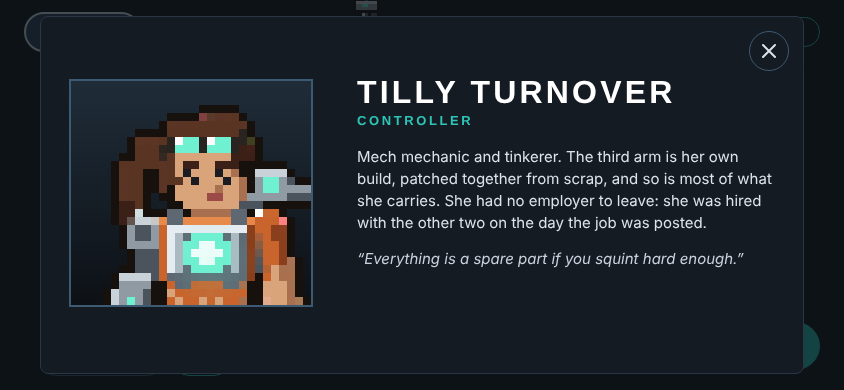
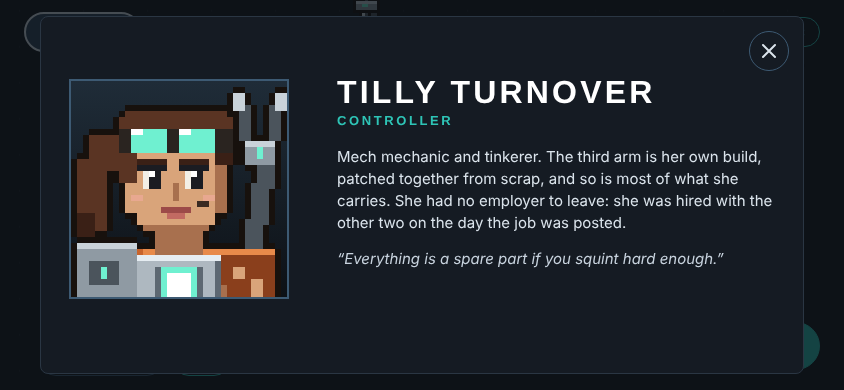
Web: the BIO sheet uses the portrait.png close-ups of the pixel concept
Claude-Session: https://claude.ai/code/session_01Rn1Tt7X9tQdJ1krB9aWBpp

diff --git a/apps/web/src/hero-select.css b/apps/web/src/hero-select.css
@@ -54,9 +54,9 @@
 /* The BIO sheet: the close-up, the Hero Name in white, the class in teal, the bio and then the line of the Hero. */
 .hs-bio { position: absolute; left: 40px; top: 16px; width: 764px; height: 358px; box-sizing: border-box; background: #151b23; border: 1px solid #2a3643; border-radius: 8px; }
 .hs-bio-close { position: absolute; right: 14px; top: 14px; }
-.hs-bio-portrait { position: absolute; left: 28px; top: 62px; width: 240px; height: 224px; border: 2px solid var(--steel); background: linear-gradient(180deg, #1f2c38, #0d1116); }
-.hs-bio-portrait img { display: block; width: 240px; height: 224px; image-rendering: pixelated; }
-.hs-bio-text { position: absolute; left: 316px; top: 57px; width: 420px; }
+.hs-bio-portrait { position: absolute; left: 28px; top: 62px; width: 216px; height: 216px; border: 2px solid var(--steel); background: linear-gradient(180deg, #1f2c38, #0d1116); }
+.hs-bio-portrait img { display: block; width: 216px; height: 216px; image-rendering: pixelated; }
+.hs-bio-text { position: absolute; left: 296px; top: 57px; width: 440px; }
 .hs-bio-text h2 { margin: 0; font: 700 32px/36px Rajdhani, sans-serif; letter-spacing: 0.1em; color: var(--white); }
 .hs-bio-text p { margin: 0; }
 .hs-bio-text .hs-bio-class { margin-top: 2px; font: 700 13px/18px Rajdhani, sans-serif; letter-spacing: 0.2em; color: var(--teal); }

diff --git a/apps/web/src/HeroSelectScreen.tsx b/apps/web/src/HeroSelectScreen.tsx
@@ -163,7 +163,7 @@ function BioSheet({ heroClass, onClose }: { heroClass: HeroClass; onClose: () =>
           </svg>
         </button>
         <div className="hs-bio-portrait">
-          <img src={`${import.meta.env.BASE_URL}assets/pixel-heroes/${HERO_CLOSE_UP[heroClass]}/bio.png`} alt={`Close-up of ${name}`} />
+          <img src={`${import.meta.env.BASE_URL}assets/pixel-heroes/${HERO_CLOSE_UP[heroClass]}/portrait.png`} alt={`Close-up of ${name}`} />
         </div>
         <div className="hs-bio-text">
           <h2>{name.toUpperCase()}</h2>

diff --git a/apps/web/src/hero-select.ts b/apps/web/src/hero-select.ts
@@ -44,7 +44,7 @@ export const HERO_PROFILES: Record<HeroClass, HeroProfile> = {
   },
 };
 
-/** The close-up of a Hero for the BIO sheet: the head and shoulders cut from its sprite sheet (30 x 28 px, shown at 8 x). */
+/** The folder of a Hero's sheets: its `portrait.png` (36 x 36 px, the close-up of the pixel concept) is shown at 6 x on the BIO sheet. */
 export const HERO_CLOSE_UP: Record<HeroClass, string> = {
   [HeroClass.Bruiser]: "bruiser",
   [HeroClass.Controller]: "controller",

diff --git a/docs/design/hero-select/README.md b/docs/design/hero-select/README.md
@@ -9,7 +9,7 @@ Chosen by the product owner. **Where this section differs from the table below, 
 - **Heroes:** the sprites are drawn at 3 screen px per sprite px (before: 2); the feet of every Hero stand at y 214 (area top 56, feet 158 inside it); the tap area of a Hero is 240 x 238.
 - **Under each Hero:** its **Hero Name** (Rajdhani 700 19 px, letter spacing 0.12 em, white; teal when selected) at y 246, and its class (Rajdhani 600 12 px, letter spacing 0.2 em, muted) at y 270. No bar under the name.
 - **The band below:** only the role text (Barlow 500 14 px, line height 20, at (40, 298), 600 wide), and **under it** the two quiet pills VIEW CARDS and BIO at (40, 344), 10 px apart, 32 high. BIO has a teal border. With no Hero selected the band shows TAP A HERO and its text and no buttons. START stays at the right.
-- **The BIO sheet** (a sheet like the card list: 764 x 358 at (40, 16) over the 72 % dark overlay, background `#151b23`, border 1 px `#2a3643`): no title and no divider, only the close button (40 x 40) at the top right (right 14, top 14). The close-up (240 x 224, steel border, from `bio.png` at 8 x) at (28, 62) in the sheet. Right of it, from y 57 and flush with the top of the close-up: the Hero Name (Rajdhani 700 32 px, 36 line height), the class in teal (700 13 px, letter spacing 0.2 em), the bio (Barlow 15 px, line height 22, 16 px below), then the line of the Hero in italic with quotation marks (14 px below).
+- **The BIO sheet** (a sheet like the card list: 764 x 358 at (40, 16) over the 72 % dark overlay, background `#151b23`, border 1 px `#2a3643`): no title and no divider, only the close button (40 x 40) at the top right (right 14, top 14). The close-up (216 x 216, steel border, the `portrait.png` of the pixel concept at 6 x) at (28, 62) in the sheet. Right of it (x 296, 440 wide), from y 57 and flush with the top of the close-up: the Hero Name (Rajdhani 700 32 px, 36 line height), the class in teal (700 13 px, letter spacing 0.2 em), the bio (Barlow 15 px, line height 22, 16 px below), then the line of the Hero in italic with quotation marks (14 px below).
 - **The words** are in `apps/web/src/hero-select.ts` (`HERO_PROFILES`); their source is `docs/design/world/README.md`.
 - **The background grid** is visible (lines at 5.5 % white) and drifts diagonally, one cell (64 x 36 px) in 36 s; with reduced motion it stands still.
 

diff --git a/docs/design/pixel-heroes/README.md b/docs/design/pixel-heroes/README.md
@@ -8,7 +8,7 @@ A proposal for the final look of the three Heroes, worked out with the product o
 
 | Path | Content |
 |---|---|
-| `apps/web/public/assets/pixel-heroes/<class>/` | The sheets, one per clip: `<clip>.png` and `<clip>.json` (PixiJS sprite sheet format), plus `clips.json` (the list of clips with their timing), `figure.png` (the standing figure of the design sheet) `portrait.png` (36 x 36) and `bio.png` (30 x 28, head and shoulders cut from frame 000 of `select_idle`, shown at 8 x on the BIO sheet of the Hero Select) |
+| `apps/web/public/assets/pixel-heroes/<class>/` | The sheets, one per clip: `<clip>.png` and `<clip>.json` (PixiJS sprite sheet format), plus `clips.json` (the list of clips with their timing), `figure.png` (the standing figure of the design sheet) `portrait.png` (36 x 36; also the close-up of the BIO sheet of the Hero Select, shown at 6 x) |
 | `overview/<class>.png` | One still per clip, with tile and Squad ring, to look at |
 | `reference/*.html` | The live pages. Open them in a browser to see the motion: the designs to choose from (`concepts-*`), the clips (`animation-*`) and the Hero Select screen (`hero-select`). Their texts are German, as written for the product owner |
 | `tools/` | The source of the sheets: the rigs (`rigs/<class>.js`) and the export (`export.mjs`) |
